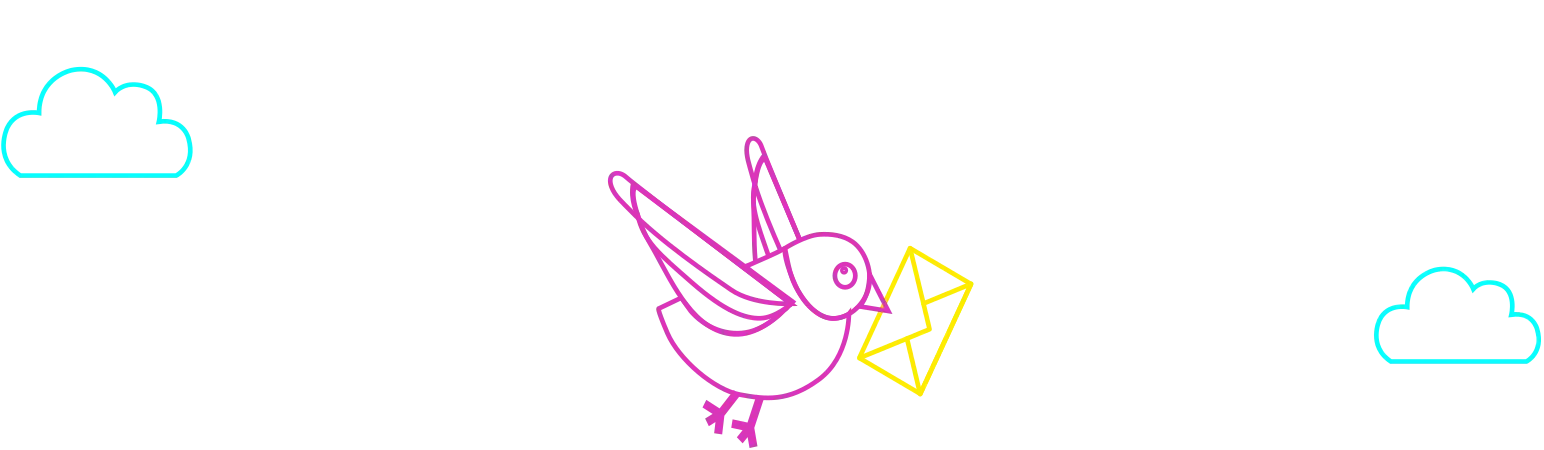
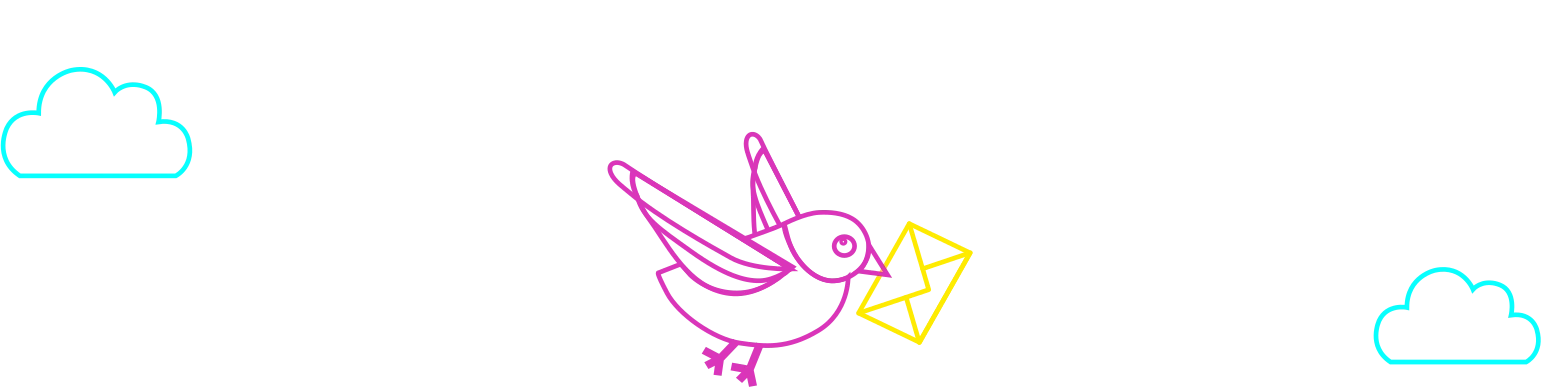
Fix images and some FE fixes

diff --git a/packages/wallet/frontend/src/pages/auth/reset/[token].tsx b/packages/wallet/frontend/src/pages/auth/reset/[token].tsx
@@ -147,14 +147,14 @@ const ResetPasswordPage: NextPageWithLayout<ResetPasswordPageProps> = ({
       )}
 
       <Image
-        className="mt-auto object-cover md:hidden"
+        className="mt-10 object-cover md:hidden"
         src={imageName}
         alt="Forgot password"
         quality={100}
         width={400}
         height={200}
       />
-      <p className="mt-auto text-center font-extralight text-green dark:text-green-neon">
+      <p className="mt-10 text-center font-extralight text-green dark:text-green-neon">
         Remembered your credentials?{' '}
         <Link href="/auth/login" className="font-medium underline">
           Login

diff --git a/packages/wallet/frontend/src/pages/auth/forgot.tsx b/packages/wallet/frontend/src/pages/auth/forgot.tsx
@@ -84,14 +84,14 @@ const ForgotPasswordPage: NextPageWithLayout = () => {
         </Form>
       </div>
       <Image
-        className="mt-auto object-cover md:hidden"
+        className="mt-10 object-cover md:hidden"
         src={imageName}
         alt="Forgot password"
         quality={100}
         width={400}
         height={200}
       />
-      <p className="mt-auto text-center font-extralight text-green dark:text-green-neon">
+      <p className="mt-10 text-center font-extralight text-green dark:text-green-neon">
         Remembered your credentials?{' '}
         <Link href="login" className="font-medium underline">
           Login

diff --git a/packages/wallet/frontend/src/pages/auth/verify/[token].tsx b/packages/wallet/frontend/src/pages/auth/verify/[token].tsx
@@ -40,14 +40,14 @@ const VerifyEmailPage: NextPageWithLayout<VerifyEmailPageProps> = ({
       )}
 
       <Image
-        className="mt-auto object-cover md:hidden"
+        className="mt-10 object-cover md:hidden"
         src={imageName}
         alt="Verify email"
         quality={100}
         width={400}
         height={200}
       />
-      <p className="mt-auto text-center font-extralight text-green dark:text-green-neon">
+      <p className="mt-10 text-center font-extralight text-green dark:text-green-neon">
         Have an account? Continue to{' '}
         <Link href="/auth/login" className="font-medium underline">
           Login

diff --git a/packages/wallet/frontend/src/pages/auth/index.tsx b/packages/wallet/frontend/src/pages/auth/index.tsx
@@ -28,14 +28,14 @@ const WelcomePage: NextPageWithLayout = () => {
         Create account
       </Button>
       <Image
-        className="mt-auto object-cover md:hidden"
+        className="mt-10 object-cover md:hidden"
         src={imageName}
         alt="Welcome"
         quality={100}
         width={400}
         height={200}
       />
-      <p className="mt-auto font-extralight text-green dark:text-green-neon">
+      <p className="mt-10 font-extralight text-green dark:text-green-neon">
         About{' '}
         <Link href="https://interledger.org" className="font-medium underline">
           Interledger

diff --git a/packages/wallet/frontend/src/pages/auth/signup.tsx b/packages/wallet/frontend/src/pages/auth/signup.tsx
@@ -179,7 +179,7 @@ const SignUpPage: NextPageWithLayout = () => {
           )}
         ></div>
       )}
-      <p className="z-10 mt-auto text-center font-extralight text-green dark:text-green-neon">
+      <p className="z-10 mt-10 text-center font-extralight text-green dark:text-green-neon">
         Already a customer?{' '}
         <Link href="login" className="font-medium underline">
           Log in

diff --git a/packages/wallet/frontend/src/components/GrantDetails.tsx b/packages/wallet/frontend/src/components/GrantDetails.tsx
@@ -4,7 +4,7 @@ type GrantDetailsProps = { grant: GrantResponse }
 
 export const GrantDetails = ({ grant }: GrantDetailsProps) => {
   return (
-    <div className="flex flex-col sm:my-10">
+    <div className="flex flex-col my-6">
       <div className="text-xl">
         <span className="font-semibold">Client: </span>
         <span className="font-light">{grant.client}</span>

diff --git a/packages/wallet/frontend/src/pages/auth/login.tsx b/packages/wallet/frontend/src/pages/auth/login.tsx
@@ -148,7 +148,7 @@ const LoginPage: NextPageWithLayout = () => {
         </p>
       </div>
       <Image
-        className="mt-auto object-cover md:hidden"
+        className="mt-10 object-cover md:hidden"
         src={imageName}
         alt="Login"
         quality={100}
